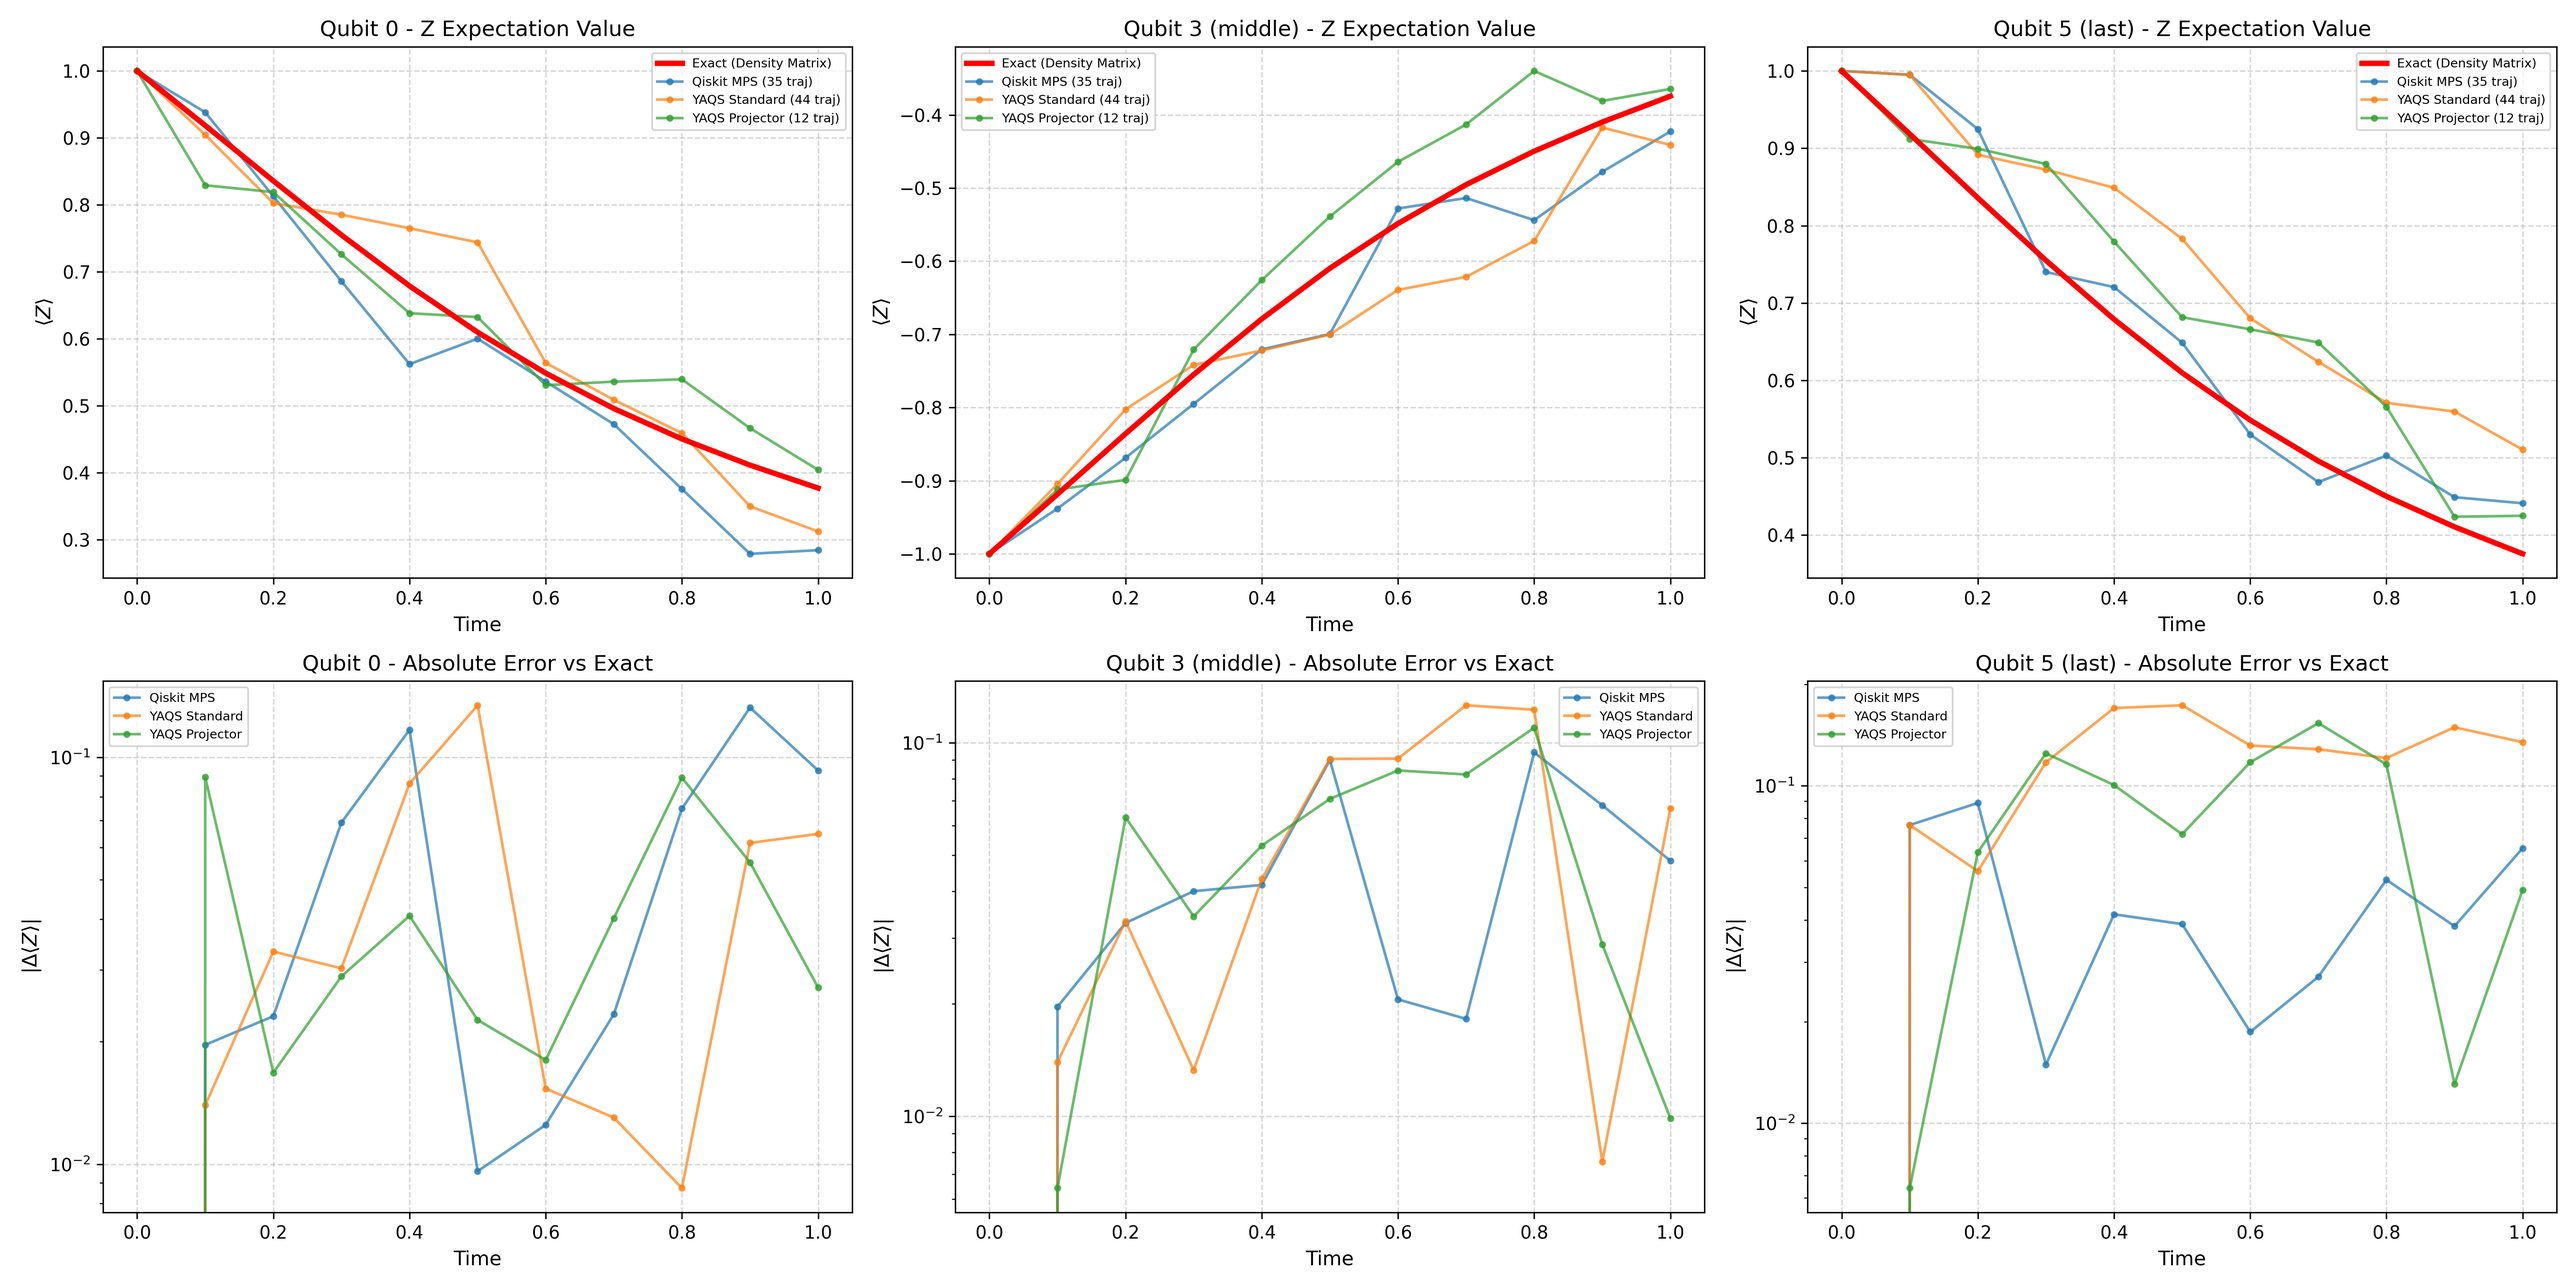
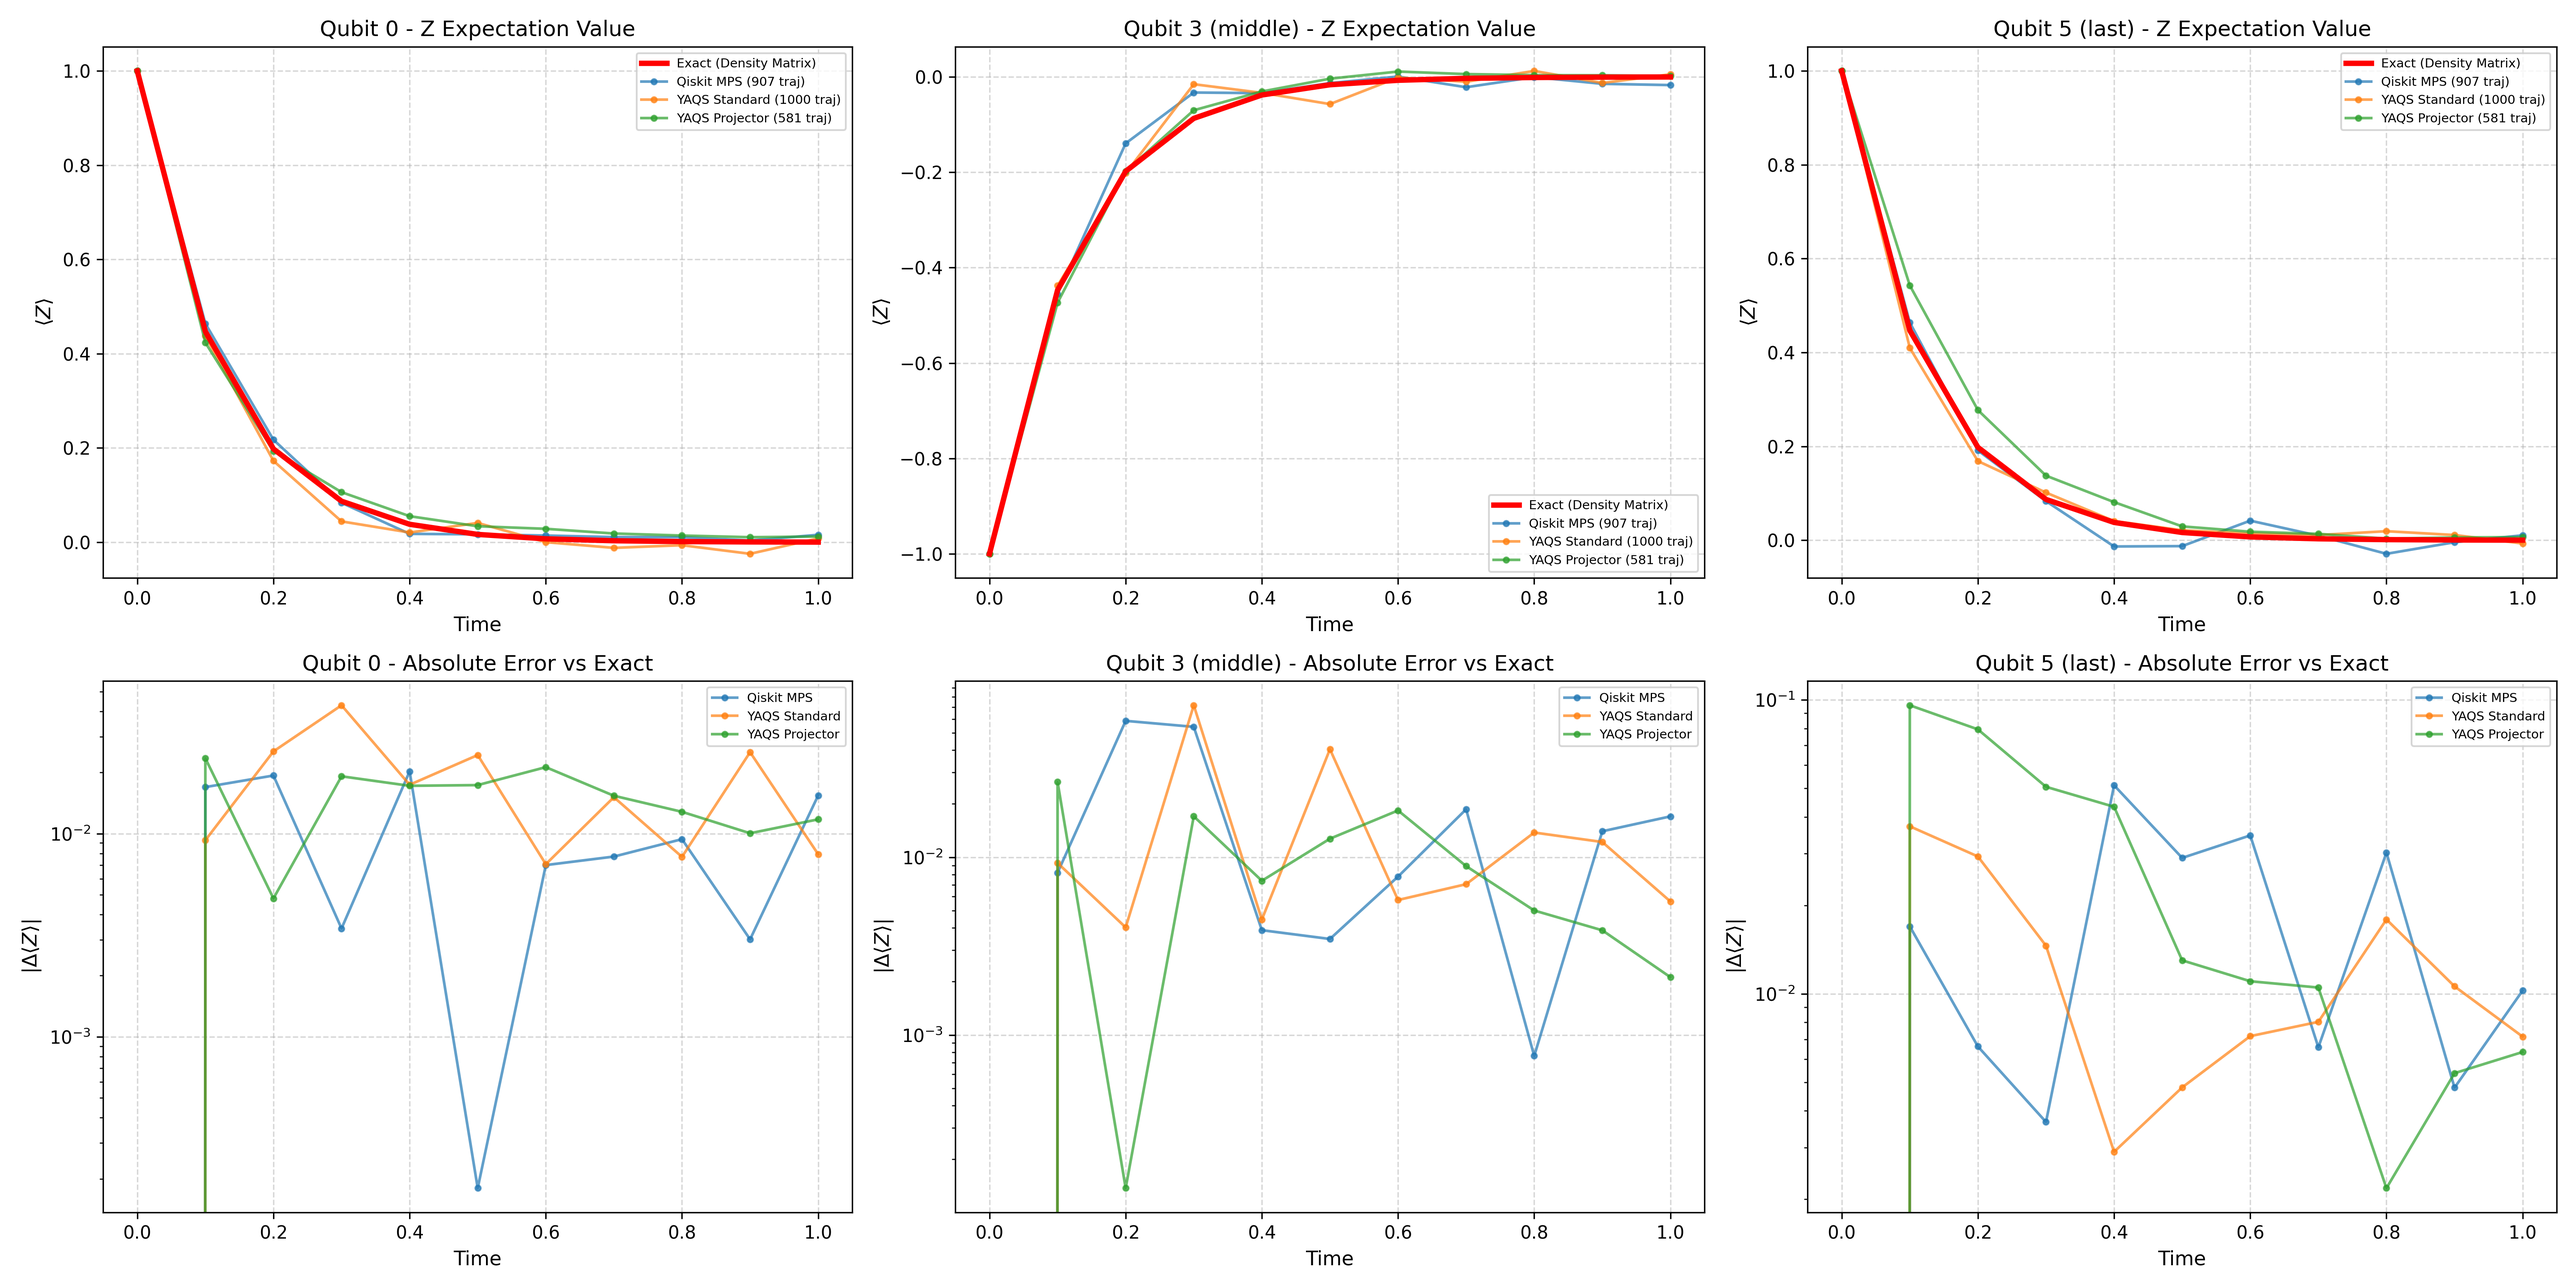
update

diff --git a/src/mqt/yaqs/codex_experiments/experiments/longrange_test.py b/src/mqt/yaqs/codex_experiments/experiments/longrange_test.py
@@ -230,7 +230,7 @@ if __name__ == "__main__":
     num_qubits = 6
     num_layers = 10
     tau = 0.1
-    noise_strength = 0.01
+    noise_strength = 0.1
     
     # ========== MODE SELECTION ==========
     # For small systems: Set run_density_matrix=True and specify threshold_mse
@@ -241,8 +241,8 @@ if __name__ == "__main__":
     enable_yaqs_projector = True
     enable_yaqs_unitary_2pt = False
     enable_yaqs_unitary_gauss = False
-    threshold_mse = 5e-3  # Target MSE threshold (only used if run_density_matrix=True)
-    fixed_trajectories = 50  # Number of trajectories for large systems (only used if run_density_matrix=False)
+    threshold_mse = 5e-4  # Target MSE threshold (only used if run_density_matrix=True)
+    fixed_trajectories = 100  # Number of trajectories for large systems (only used if run_density_matrix=False)
     # ====================================
     
     print("="*70)

diff --git a/src/mqt/yaqs/core/methods/stochastic_process.py b/src/mqt/yaqs/core/methods/stochastic_process.py
@@ -77,7 +77,6 @@ def apply_mpo_jump(
     # Now normalize the MPS and truncate bond dimensions via canonical form sweep
     # This brings the MPS back to canonical form and controls bond dimension growth
     state.normalize("B", decomposition="SVD")
-    print("applied mpo jump to state")
 
 
 def calculate_stochastic_factor(state: MPS) -> NDArray[np.float64]:
